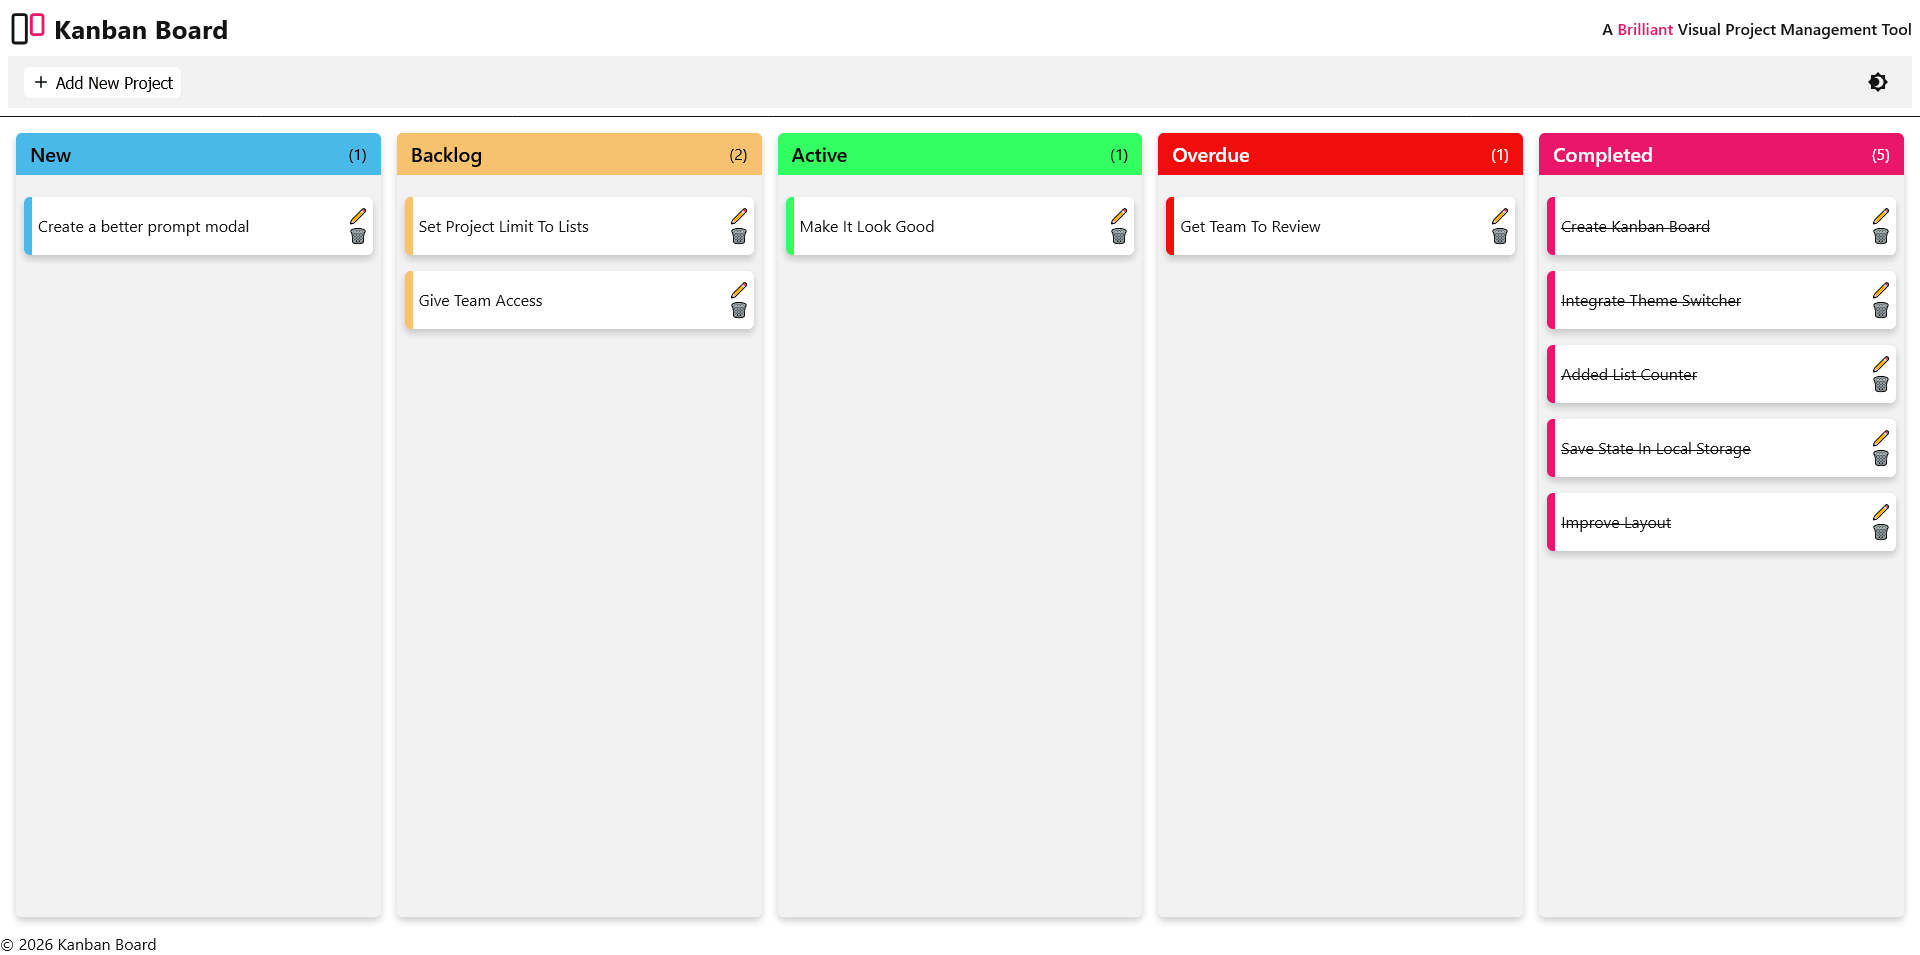
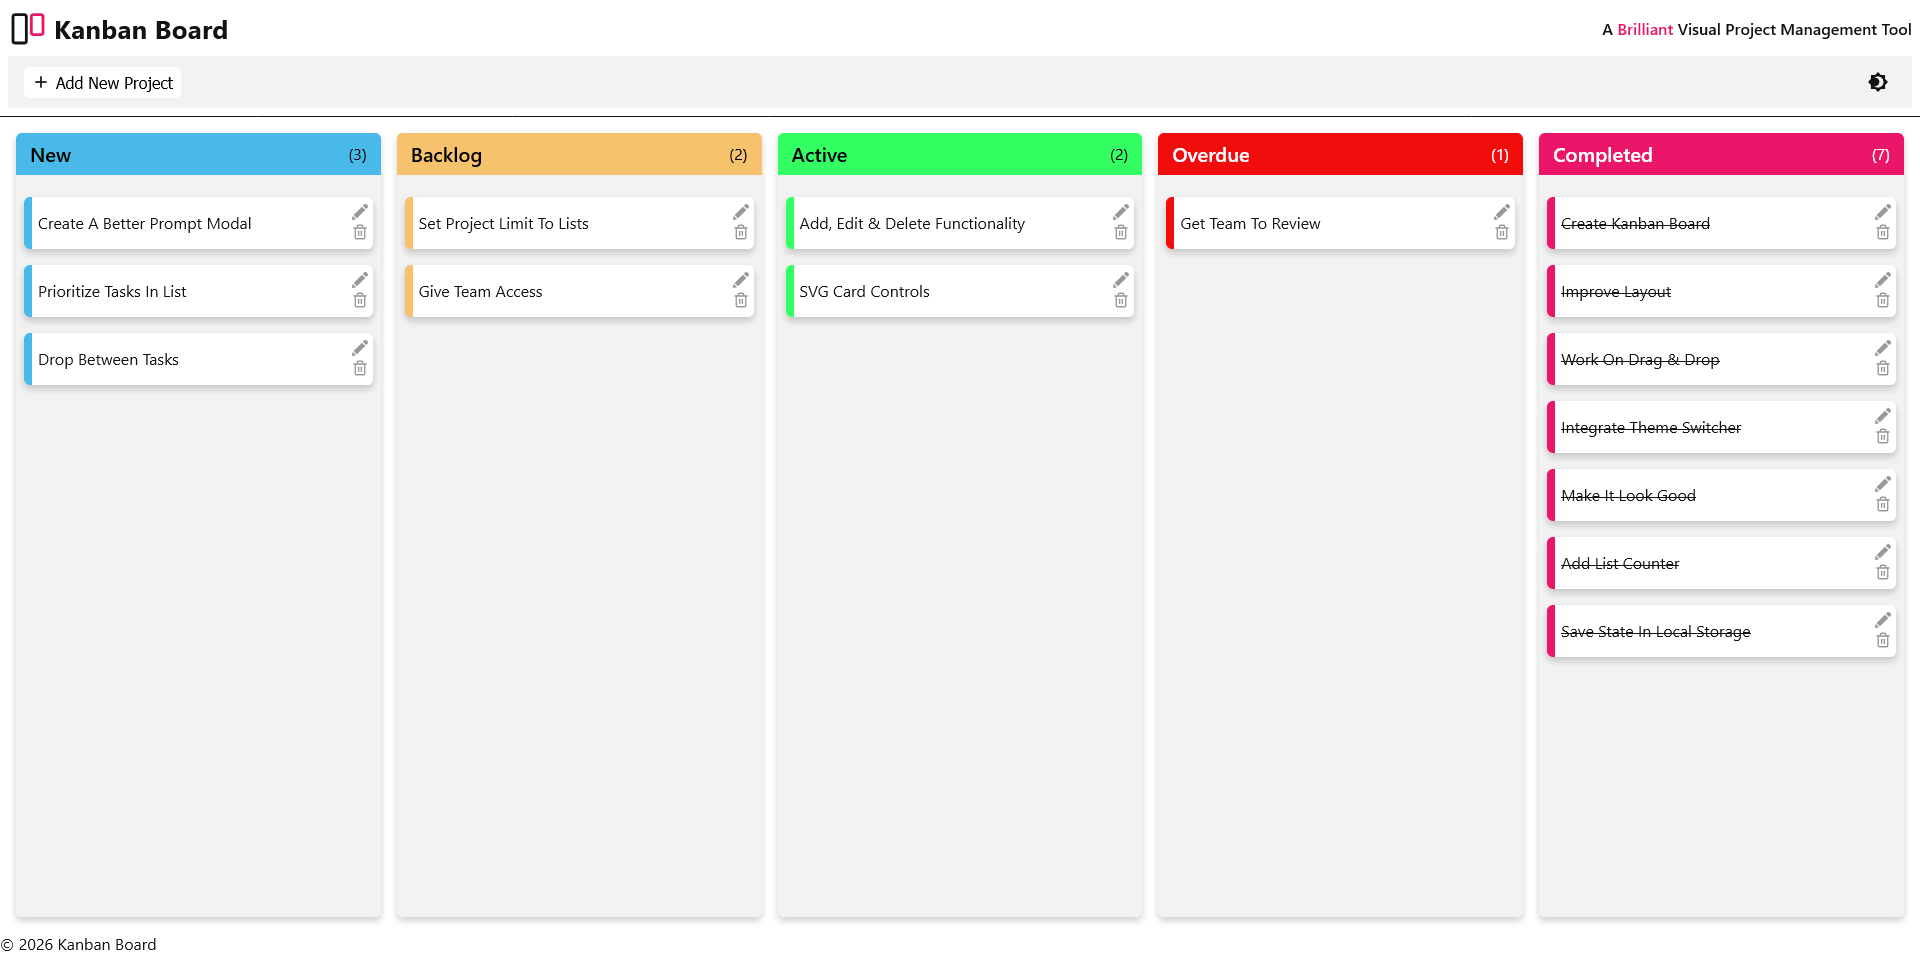
Changed card controls to SVG

diff --git a/js/script.js b/js/script.js
@@ -105,8 +105,23 @@ function addNewProject(listId) {
     card.innerHTML = `
         <span class="card-text">${projectName}</span>
         <div class="card-controls">
-            <button class="btn edit-btn" onclick="editCard('${card.id}')">✏</button>
-            <button class="btn delete-btn" onclick="deleteCard('${card.id}')">🗑</button>
+            <button class="btn edit-btn" onclick="editCard('${card.id}')" title="Edit">
+                <svg xmlns="http://w3.org" width="16" height="16" viewBox="0 0 528.899 528.899" fill="currentColor">
+                    <g>
+                        <path d="M328.883,89.125l107.59,107.589l-272.34,272.34L56.604,361.465L328.883,89.125z M518.113,63.177l-47.981-47.981
+                        c-18.543-18.543-48.653-18.543-67.259,0l-45.961,45.961l107.59,107.59l53.611-53.611
+                        C532.495,100.753,532.495,77.559,518.113,63.177z M0.3,512.69c-1.958,8.812,5.998,16.708,14.811,14.565l119.891-29.069
+                        L27.473,390.597L0.3,512.69z"></path>
+                    </g>
+                </svg>
+            </button>
+            <button class="btn delete-btn" onclick="deleteCard('${card.id}')" title="Delete">
+                <svg xmlns="http://w3.org" width="16" height="16" viewBox="0 0 24 24" fill="none" stroke="currentColor" stroke-width="2" stroke-linecap="round" stroke-linejoin="round">
+                    <path d="M3 6H21M5 6V20C5 21.1046 5.89543 22 7 22H17C18.1046 22 19 21.1046 19 20V6M8 6V4C8 2.89543 8.89543 2 10 2H14C15.1046 2 16 2.89543 16 4V6"></path>
+                    <path d="M14 11V17"></path>
+                    <path d="M10 11V17"></path>
+                </svg>
+            </button>
         </div>
     `;
 
@@ -200,8 +215,23 @@ function loadState() {
             card.innerHTML = `
                 <span class="card-text">${data.text}</span>
                 <div class="card-controls">
-                    <button class="btn edit-btn" onclick="editCard('${card.id}')">✏</button>
-                    <button class="btn delete-btn" onclick="deleteCard('${card.id}')">🗑</button>
+                    <button class="btn edit-btn" onclick="editCard('${card.id}')">
+                        <svg xmlns="http://w3.org" width="18" height="18" viewBox="0 0 528.899 528.899" fill="currentColor">
+                            <g>
+                                <path d="M328.883,89.125l107.59,107.589l-272.34,272.34L56.604,361.465L328.883,89.125z M518.113,63.177l-47.981-47.981
+                                c-18.543-18.543-48.653-18.543-67.259,0l-45.961,45.961l107.59,107.59l53.611-53.611
+                                C532.495,100.753,532.495,77.559,518.113,63.177z M0.3,512.69c-1.958,8.812,5.998,16.708,14.811,14.565l119.891-29.069
+                                L27.473,390.597L0.3,512.69z"></path>
+                            </g>
+                        </svg>
+                    </button>
+                    <button class="btn delete-btn" onclick="deleteCard('${card.id}')">
+                        <svg xmlns="http://w3.org" width="18" height="18" viewBox="0 0 24 24" fill="none" stroke="currentColor" stroke-width="2" stroke-linecap="round" stroke-linejoin="round">
+                            <path d="M3 6H21M5 6V20C5 21.1046 5.89543 22 7 22H17C18.1046 22 19 21.1046 19 20V6M8 6V4C8 2.89543 8.89543 2 10 2H14C15.1046 2 16 2.89543 16 4V6"></path>
+                            <path d="M14 11V17"></path>
+                            <path d="M10 11V17"></path>
+                        </svg>
+                    </button>
                 </div>
             `;
 

diff --git a/css/style.css b/css/style.css
@@ -305,7 +305,8 @@ footer {
 		outline 0.2s;
 	cursor: grab;
 
-	display: flex;
+	display: grid;
+	grid-template-columns: 1fr auto;
 	align-items: center;
 	justify-content: space-between;
 }
@@ -319,15 +320,25 @@ footer {
 	display: flex;
 	flex-direction: column;
 	gap: 2px;
-	transform: scale(0.9);
+	transition:
+		opacity 0.3s ease,
+		transform 0.3s ease;
 
 	& .btn {
+		opacity: 0.4;
 		padding: 0;
 		padding-inline: 2px;
+		transform: scale(0.9);
 	}
 	& .btn:hover,
 	& .btn:focus-visible {
 		outline: 0;
+		opacity: 1;
+		transform: scale(1);
+	}
+	svg {
+		width: 18px;
+		height: 100%;
 	}
 }
 
